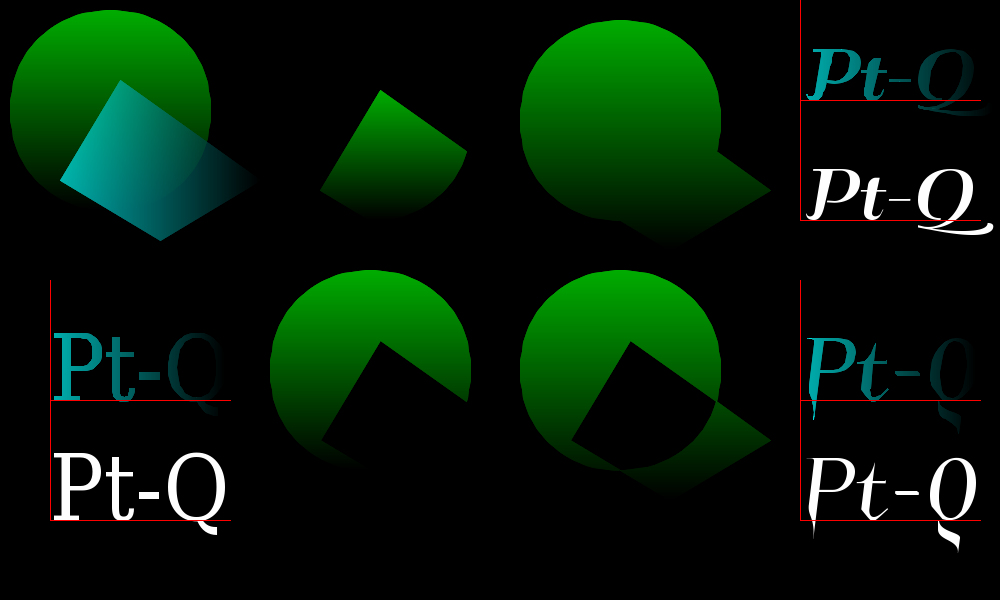
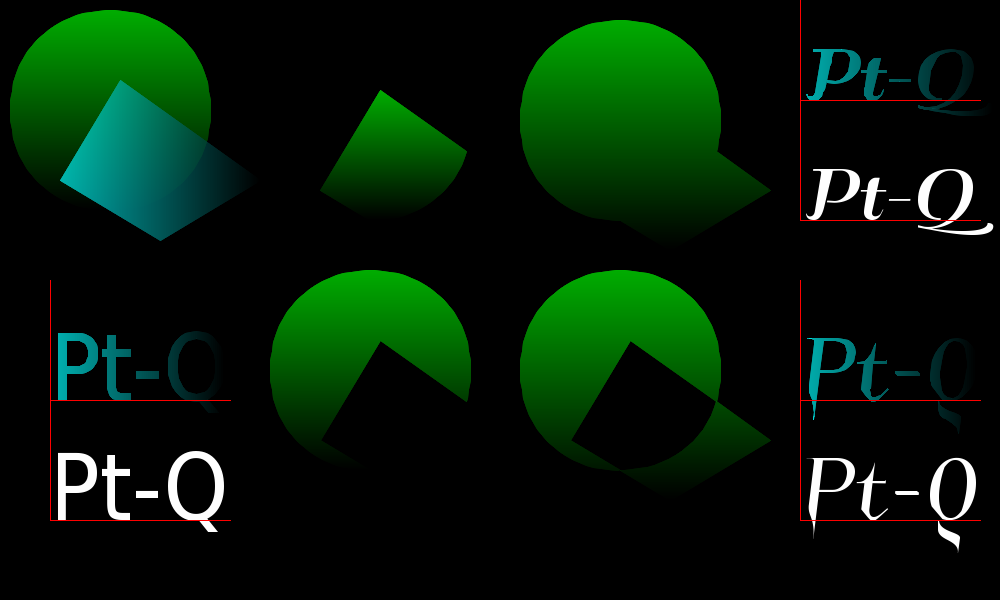
Cleanup

diff --git a/src/Pt-Gfx/tests/ImagePainterTest2.cpp b/src/Pt-Gfx/tests/ImagePainterTest2.cpp
@@ -84,7 +84,7 @@ using namespace Pt::Gfx;
 
 // Detailed-test enable settings for Pt-Gfx
 #define TEST_SOURCECOPY                         1
-#define TEST_SOURCEOVER                         0
+#define TEST_SOURCEOVER                         1
 
 #define TEST_DRAW_SOLID_LINE_AND_TEXT           0 // (including bezier)
 #define TEST_DRAW_PATTERNED_LINE                0 // (including bezier)
@@ -164,7 +164,7 @@ using namespace Pt::Gfx;
 #define FONT_SPEC_N "DejaVu Sans"  ,  24, Pt::Gfx::Font::BoldItalic,    0
 #define FONT_SPEC_R "DejaVu Sans"  ,  24, Pt::Gfx::Font::BoldItalic, -150
 
-#define FONT_SPEC_H "DejaVu Serif" ,  80, Pt::Gfx::Font::Italic    ,    0
+#define FONT_SPEC_H "DejaVu Sans"  ,  92, Pt::Gfx::Font::Normal    ,    0
 #define FONT_SPEC_Q "QumpellkaNo12",  64, Pt::Gfx::Font::Normal    ,    0 /* OTF */
 #define FONT_SPEC_C "Charakterny"  , 116, Pt::Gfx::Font::Italic    ,    0 /* OTF */
 

diff --git a/src/Pt-Gfx/FreeType2.cpp b/src/Pt-Gfx/FreeType2.cpp
@@ -702,6 +702,7 @@ FTC_FaceID FreeType2::findFaceId(const Font& font)
 {
     System::MutexLock lock(FreeType2::_mutex);
 
+    // Temporary workaround for this configuration
 #if ( defined(__arm__) || defined(__thumb__) || defined(__aarch64__) ) && ( __GNUC__ == 4 && __GNUC_MINOR__ == 9 )
 
     for(Fonts::iterator it = FreeType2::_fonts.begin(); it != FreeType2::_fonts.end(); ++it) {
